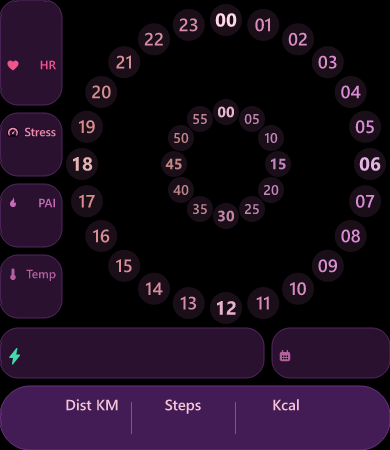
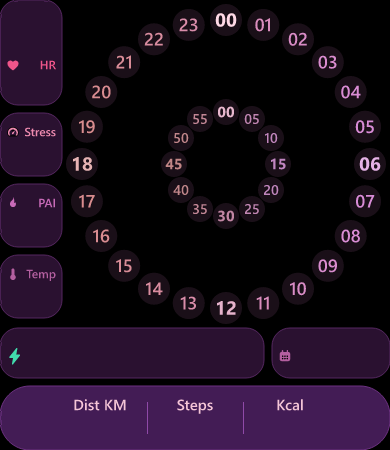
fix: even out the bottom bar's cells
Content-sized cells keep a wide reading from being clipped, but they also
move the cell centres off the symmetric positions. With three cells the
middle one sat at 183 instead of 195 and the row read as slipped left.

Equal cells are now the default and content-sizing is the fallback, taken
only when some reading will not fit an equal share. Centres go from
92/183/286 to 100/195/290.

Changed region(s): [[0.1538, 0.8711, 0.3385, 0.9333], [0.4308, 0.8711, 0.5538, 0.9333], [0.6769, 0.8711, 0.7692, 0.9333]]

diff --git a/watchface/layout.js b/watchface/layout.js
@@ -60,7 +60,7 @@ export const HL_MIN_BOX = 70
 export const SLOTS = [{"key":"hr","app":"HR","tap":{"src":"hit/62x105.png","x":0,"y":0,"w":62,"h":105},"value":{"align":"right","x":6,"y":65,"w":50,"h":36,"size":28,"color":"primary"},"unit":null,"meter":null,"dataType":"HEART"},{"key":"stress","app":"PRESSURE","tap":{"src":"hit/62x63.png","x":0,"y":113,"w":62,"h":63},"value":{"align":"right","x":6,"y":136,"w":50,"h":36,"size":28,"color":"primary"},"unit":null,"meter":null,"dataType":"STRESS"},{"key":"pai","app":"PAI","tap":{"src":"hit/62x63.png","x":0,"y":184,"w":62,"h":63},"value":{"align":"right","x":6,"y":207,"w":50,"h":36,"size":28,"color":"primary"},"unit":null,"meter":null,"dataType":"PAI_DAILY"},{"key":"temp","app":"WEATHER","tap":{"src":"hit/62x63.png","x":0,"y":255,"w":62,"h":63},"value":{"align":"right","x":6,"y":278,"w":50,"h":36,"size":28,"color":"primary"},"unit":null,"meter":null,"dataType":"WEATHER_CURRENT"},{"key":"battery","app":"SETTING","tap":{"src":"hit/264x50.png","x":0,"y":328,"w":264,"h":50},"value":{"align":"left","x":32,"y":338,"w":56,"h":36,"size":28,"color":"accent"},"unit":null,"meter":{"name":"battery","x":100,"y":342,"w":158,"h":22},"dataType":"BATTERY"},{"key":"date","app":"CALENDAR","tap":{"src":"hit/118x50.png","x":272,"y":328,"w":118,"h":50},"value":{"align":"right","x":278,"y":338,"w":106,"h":36,"size":24,"color":"primary"},"unit":null,"meter":null,"dataType":null}]
 
 /** The four cells inside the bottom pill, same shape as SLOTS. */
-export const PILL_CELLS = [{"key":"distance","app":"STATUS","dataType":"DISTANCE","tap":{"x":0,"y":386,"w":131,"h":64,"src":"hit/131x64.png"},"value":{"x":67,"y":412,"w":50,"h":31,"size":24}},{"key":"steps","app":"STATUS","dataType":"STEP","tap":{"x":131,"y":386,"w":104,"h":64,"src":"hit/104x64.png"},"value":{"x":148,"y":412,"w":70,"h":31,"size":24}},{"key":"kcal","app":"STATUS","dataType":"CAL","tap":{"x":235,"y":386,"w":155,"h":64,"src":"hit/155x64.png"},"value":{"x":251,"y":412,"w":70,"h":31,"size":24}}]
+export const PILL_CELLS = [{"key":"distance","app":"STATUS","dataType":"DISTANCE","tap":{"x":0,"y":386,"w":147,"h":64,"src":"hit/147x64.png"},"value":{"x":75,"y":412,"w":50,"h":31,"size":24}},{"key":"steps","app":"STATUS","dataType":"STEP","tap":{"x":147,"y":386,"w":96,"h":64,"src":"hit/96x64.png"},"value":{"x":160,"y":412,"w":70,"h":31,"size":24}},{"key":"kcal","app":"STATUS","dataType":"CAL","tap":{"x":243,"y":386,"w":147,"h":64,"src":"hit/147x64.png"},"value":{"x":255,"y":412,"w":70,"h":31,"size":24}}]
 
 export const METER_STEPS = 21
 
